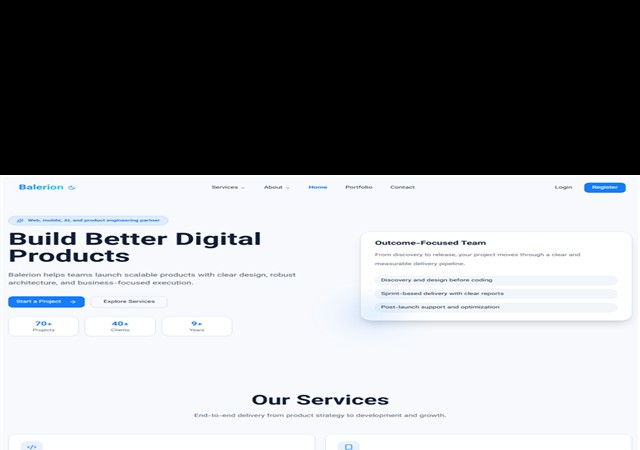
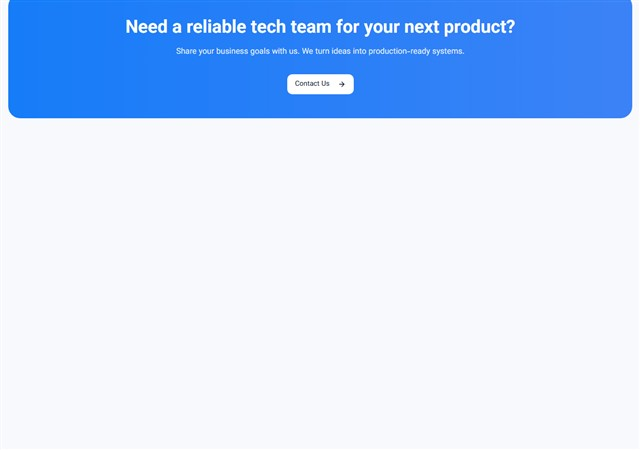
Replace Viserion with Panahyar, fix Surin & Balerion previews

diff --git a/index.html b/index.html
@@ -481,15 +481,15 @@
               <i class="bi bi-box-arrow-up-right"></i>
             </div>
           </div>
-          <div class="portfolio-card reveal delay-1" data-url="https://pyar-phi.vercel.app">
+          <div class="portfolio-card reveal delay-1" data-url="https://www.panahyar.online">
             <div class="portfolio-thumb">
-              <div class="portfolio-browser-bar"><span class="pb-dot"></span><span class="pb-dot"></span><span class="pb-dot"></span><span class="pb-url">pyar-phi.vercel.app</span></div>
+              <div class="portfolio-browser-bar"><span class="pb-dot"></span><span class="pb-dot"></span><span class="pb-dot"></span><span class="pb-url">panahyar.online</span></div>
               <div class="portfolio-preview">
-                <img src="https://image.thum.io/get/width/640/crop/450/https://pyar-phi.vercel.app" alt="Viserion Template" loading="lazy" />
+                <img src="images/preview-panahyar.png" alt="Panahyar" loading="lazy" />
               </div>
             </div>
             <div class="portfolio-info">
-              <span>Viserion</span>
+              <span>Panahyar</span>
               <i class="bi bi-box-arrow-up-right"></i>
             </div>
           </div>
